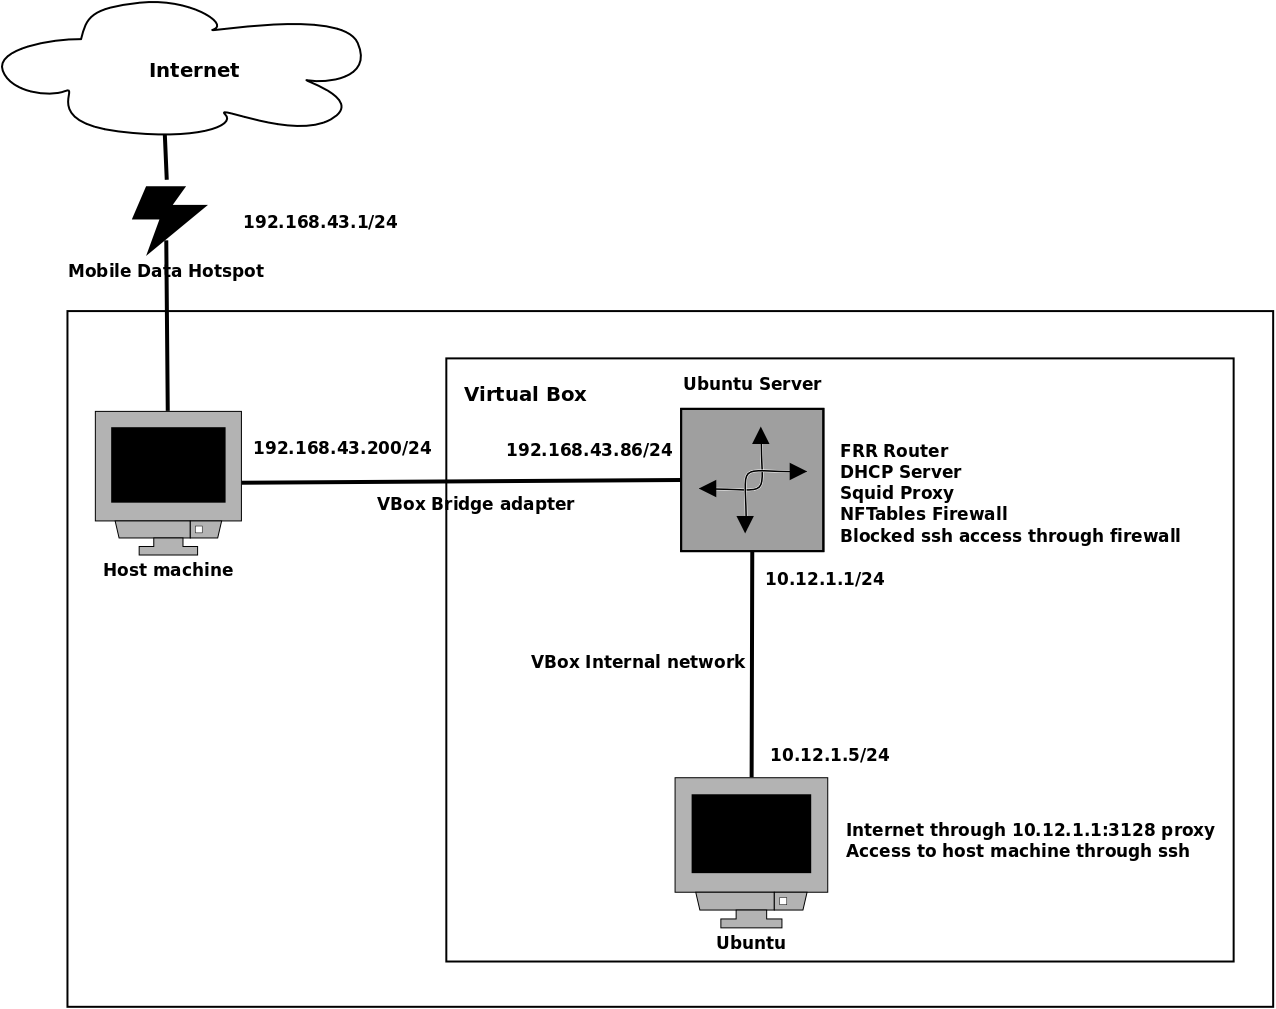
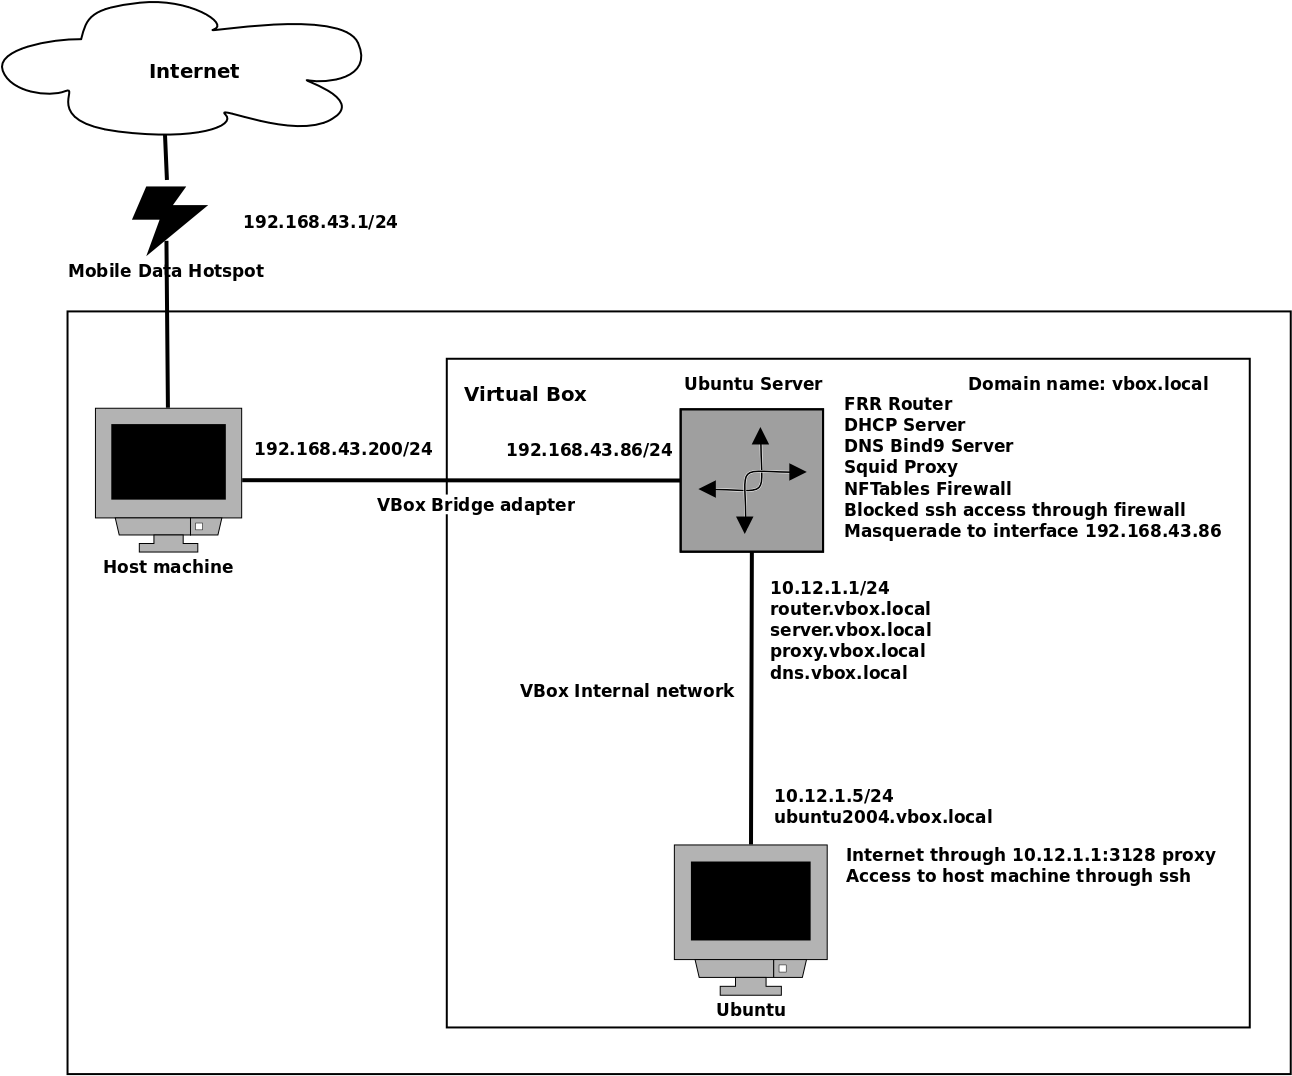
Updated example network configuration

diff --git a/notebook_os_networks.md b/notebook_os_networks.md
@@ -647,6 +647,9 @@ network:
   ethernets:
     enp0s3:
       dhcp4: true
+      nameservers:
+        search: [vbox.local]
+        addresses: [10.12.1.1]
       routes:
       - to: 192.168.43.0/24
         via: 10.12.1.1
@@ -664,10 +667,14 @@ network:
 
 flush ruleset
 
+define interface_external = "enp0s3"
+
 table inet filter {
 	chain input {
 		type filter hook input priority 0;
-    # drop all the packets request to connect to ssh on the machine
+    # allowing port dns connections
+		tcp dport { 53, 953 } accept
+    # rejecting port 22/ssh connections from other hosts
 		tcp dport ssh drop
 	}
 	chain forward {
@@ -675,15 +682,21 @@ table inet filter {
 	}
 	chain output {
 		type filter hook output priority filter;
+		# ip protocol icmp accept
+	 	# meta nfproto ipv4 reject
 	}
 }
 
-table inet proxy_redicrect {
+table inet nat_masquerade {
 	chain prerouting {
-		type nat hook prerouting priority 0;
-    # redirect all the income packages through 80 and 443 to 3128 proxy port
-		tcp dport 80 counter redirect to 3128
-		tcp dport 443 counter redirect to 3128
+		type nat hook prerouting priority -101;
+		ip protocol icmp counter meta nftrace set 1
+	}
+	
+	chain postrouting {
+		type nat hook postrouting priority srcnat;
+    # masquerade to interface ip
+		oifname interface_external masquerade 
 	}
 }
 ```
